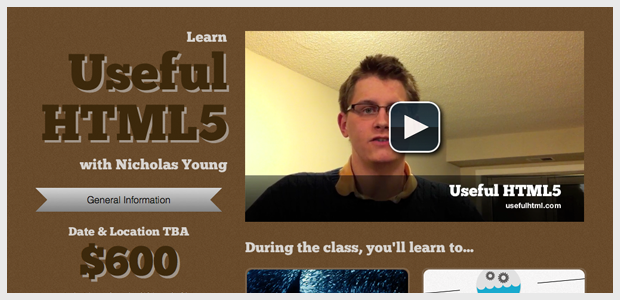
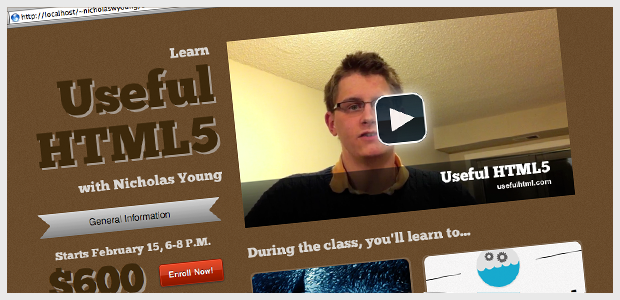
Add UsefulHTML

diff --git a/work.html b/work.html
@@ -61,6 +61,27 @@
 				</section>
 			</section>
 			<section class="light_spacer grid_12"></section>
+							<section class="project">
+				<section class="project_img grid_8 alpha">
+					<img src="images/usefulhtml5.png">
+					Skills used: Design (HTML, CSS3, JavaScript).
+				</section>
+				<section class="work_detail grid_4 omega">
+					<h2>Useful HTML5</h2>
+					<p>
+						HTML5 is here, and as a modern web designer, you can use it now.
+					</p>
+					<p>
+						In late 2010, I was approached by several designers who wanted to increase their marketability
+						by learning HTML. The class' curriculum took a zero-to-sixty approach: beginners could know nothing,
+						and walk out ready to write beautiful markup and expressive CSS.
+					</p>
+					<p>
+						<a href="http://usefulhtml.com/" target="_blank">See the site here &raquo;</a> 
+					</p>
+				</section>
+			</section>
+			<section class="light_spacer grid_12"></section>
 			<section class="project">
 				<section class="project_img grid_8 alpha">
 					<img src="images/stereofeed.png">
